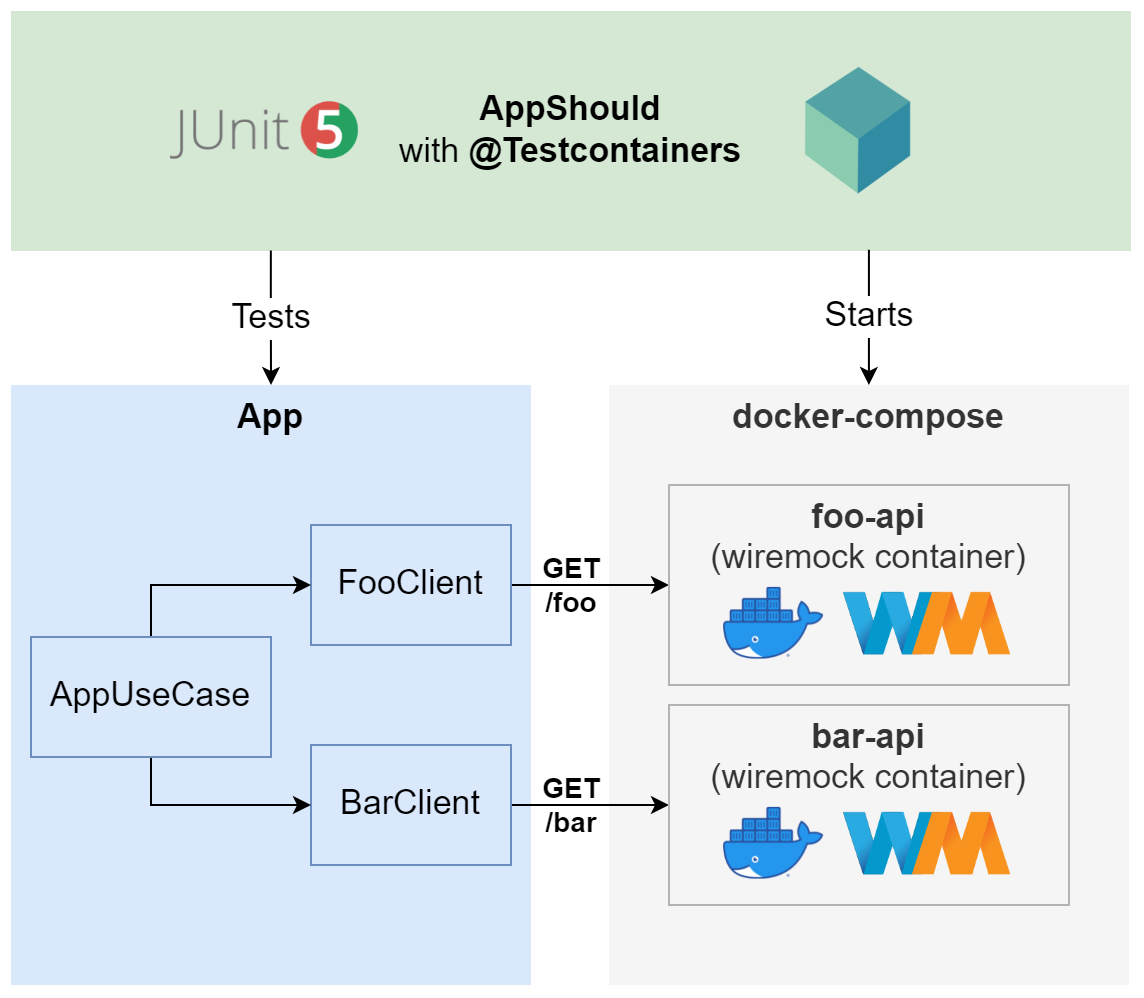
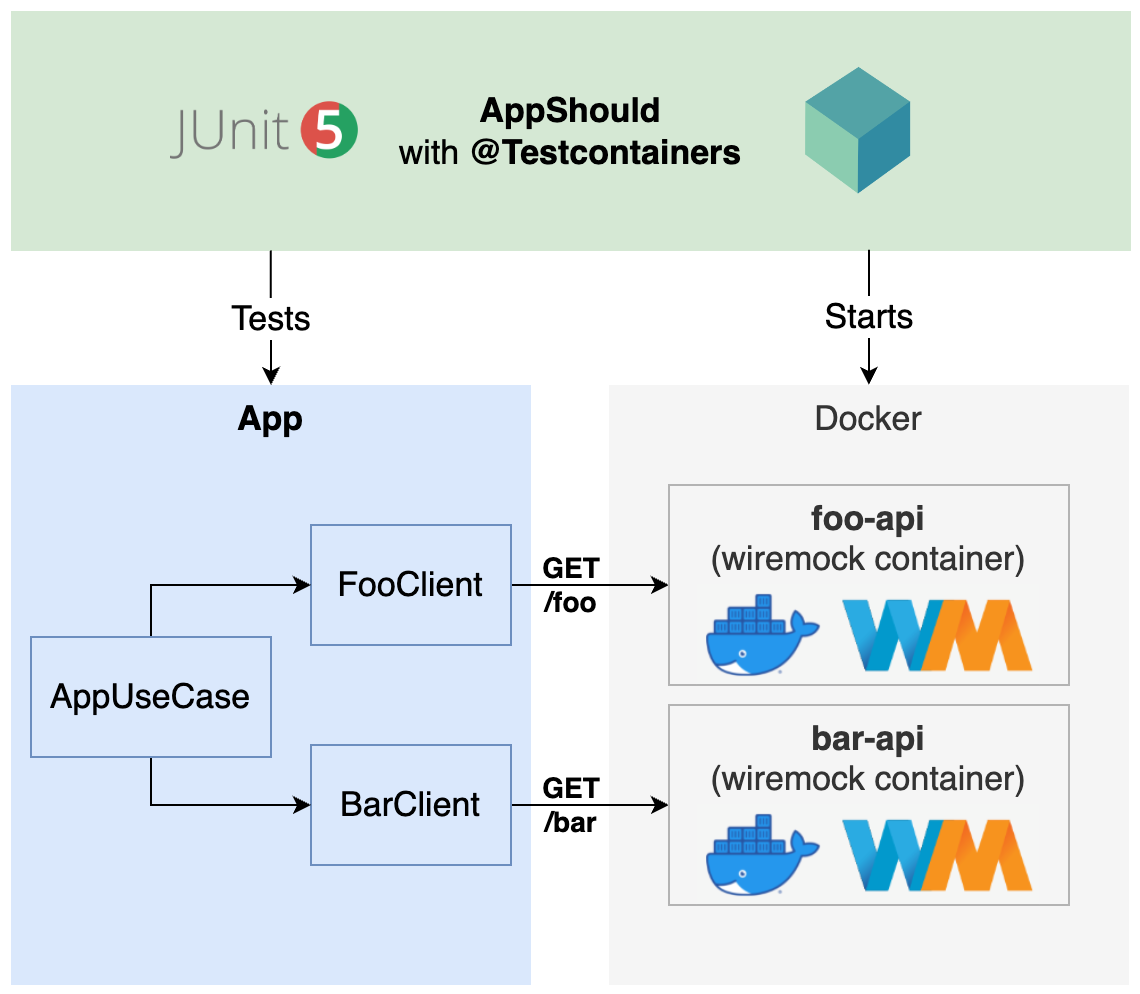
Use WireMock Testcontainers (#24)
* Update documentation

* Fix text

* Use numbered list

* Fix image

* Fix text

* Fix link

* Fix link

* Fix code

* Fix index

* Fix links

* Rename test

* Use WireMockContainer

* Update README

* Fix headings

diff --git a/src/test/kotlin/com/rogervinas/wiremock/AppShouldWithWireMockTestcontainers.kt b/src/test/kotlin/com/rogervinas/wiremock/AppShouldWithWireMockTestcontainers.kt
@@ -1,0 +1,80 @@
+package com.rogervinas.wiremock
+
+import com.github.tomakehurst.wiremock.client.WireMock
+import com.github.tomakehurst.wiremock.client.WireMock.get
+import com.github.tomakehurst.wiremock.client.WireMock.ok
+import com.github.tomakehurst.wiremock.client.WireMock.urlPathEqualTo
+import com.github.tomakehurst.wiremock.client.WireMock.urlPathMatching
+import org.assertj.core.api.Assertions.assertThat
+import org.junit.jupiter.api.Test
+import org.junit.jupiter.api.TestInstance
+import org.junit.jupiter.api.TestInstance.Lifecycle.PER_CLASS
+import org.testcontainers.junit.jupiter.Container
+import org.testcontainers.junit.jupiter.Testcontainers
+import org.wiremock.integrations.testcontainers.WireMockContainer
+import java.io.File
+
+@Testcontainers
+@TestInstance(PER_CLASS)
+class AppShouldWithWireMockTestcontainers {
+
+  companion object {
+    private const val name = "Ivy"
+
+    @Container
+    @JvmStatic
+    val containerFoo = WireMockContainer("wiremock/wiremock:3.2.0")
+      .withMappingFromJSON(File("wiremock/foo-api/mappings/foo-get.json").readText())
+      .withCliArg("--global-response-templating")
+
+    @Container
+    @JvmStatic
+    val containerBar = WireMockContainer("wiremock/wiremock:3.2.0")
+      .withMappingFromJSON(File("wiremock/bar-api/mappings/bar-get.json").readText())
+      .withCliArg("--global-response-templating")
+  }
+
+  @Test
+  fun `call foo and bar`() {
+    val fooApiUrl = "http://${containerFoo.host}:${containerFoo.port}"
+    val barApiUrl = "http://${containerBar.host}:${containerBar.port}"
+
+    val app = App(name, fooApiUrl, barApiUrl)
+
+    assertThat(app.execute()).isEqualTo(
+      """
+        Hi! I am $name
+        I called Foo and its response is Hello $name I am Foo!
+        I called Bar and its response is Hello $name I am Bar!
+        Bye!
+      """.trimIndent()
+    )
+  }
+
+  @Test
+  fun `call foo an bar with dynamic stubs`() {
+    val fooApiUrl = "http://${containerFoo.host}:${containerFoo.port}/dynamic"
+    val barApiUrl = "http://${containerBar.host}:${containerBar.port}/dynamic"
+
+    WireMock(containerFoo.host, containerFoo.port)
+          .register(get(urlPathEqualTo("/dynamic/foo"))
+                .withQueryParam("name", WireMock.equalTo(name))
+                .willReturn(ok().withBody("Hi $name I am Foo, how are you?"))
+    )
+    WireMock(containerBar.host, containerBar.port)
+          .register(get(urlPathMatching("/dynamic/bar/$name"))
+                .willReturn(ok().withBody("Hi $name I am Bar, nice to meet you!"))
+          )
+
+    val app = App(name, fooApiUrl, barApiUrl)
+
+    assertThat(app.execute()).isEqualTo(
+      """
+        Hi! I am $name
+        I called Foo and its response is Hi $name I am Foo, how are you?
+        I called Bar and its response is Hi $name I am Bar, nice to meet you!
+        Bye!
+      """.trimIndent()
+    )
+  }
+}

diff --git a/src/test/kotlin/com/rogervinas/wiremock/AppShouldWithComposeTestcontainers.kt b/src/test/kotlin/com/rogervinas/wiremock/AppShouldWithComposeTestcontainers.kt
@@ -1,7 +1,10 @@
 package com.rogervinas.wiremock
 
 import com.github.tomakehurst.wiremock.client.WireMock
-import com.github.tomakehurst.wiremock.client.WireMock.*
+import com.github.tomakehurst.wiremock.client.WireMock.get
+import com.github.tomakehurst.wiremock.client.WireMock.ok
+import com.github.tomakehurst.wiremock.client.WireMock.urlPathEqualTo
+import com.github.tomakehurst.wiremock.client.WireMock.urlPathMatching
 import org.assertj.core.api.Assertions.assertThat
 import org.junit.jupiter.api.BeforeAll
 import org.junit.jupiter.api.Test
@@ -15,7 +18,7 @@ import java.io.File
 
 @Testcontainers
 @TestInstance(PER_CLASS)
-class AppShouldWithWireMockDocker {
+class AppShouldWithComposeTestcontainers {
 
   companion object {
     private const val name = "Ivy"

diff --git a/README.md b/README.md
@@ -6,11 +6,14 @@
 # WireMock Testing
 
 [WireMock](https://wiremock.org/) is a great library to mock APIs in your tests and supports [Junit5](https://wiremock.org/docs/junit-jupiter/) with two modes:
-
 - Declarative with **@WireMockTest**
 - Programmatic with **WireMockExtension**
 
-And **WireMock** also has an [official Docker image](https://hub.docker.com/r/wiremock/wiremock)!
+And **WireMock** also has:
+- A [Docker image](https://hub.docker.com/r/wiremock/wiremock)!
+- A [Testcontainers module](https://wiremock.org/docs/solutions/testcontainers/)!
+
+(you can also check [other supported technologies](https://wiremock.org/docs/#:~:text=By%20technology))
 
 But "talk is cheap, show me the code [...](https://www.goodreads.com/quotes/437173-talk-is-cheap-show-me-the-code#:~:text=Quote%20by%20Linus%20Torvalds%3A%20%E2%80%9CTalk,Show%20me%20the%20code.%E2%80%9D)" 😮
 
@@ -18,7 +21,9 @@ Ok so let's implement first the scenario with **@WireMockTest**:
 
 ![WireMockTest](doc/WireMockTest.png)
 
-And later the one with [WireMock's official Docker image](https://hub.docker.com/r/wiremock/wiremock):
+And later the one with [@Testcontainers](https://testcontainers.com/) and these two alternatives:
+1. Generic [Compose Testcontainers module](https://java.testcontainers.org/modules/docker_compose/#compose-v2) using [official WireMock's docker image](https://hub.docker.com/r/wiremock/wiremock)
+2. [WireMock's Testcontainers module](https://wiremock.org/docs/solutions/testcontainers/)
 
 ![WireMockDockerTest](doc/WireMockDockerTest.png)
 
@@ -35,10 +40,11 @@ And later the one with [WireMock's official Docker image](https://hub.docker.com
   * [App implementation](#app-implementation)
   * [App test with @WireMockTest](#app-test-with-wiremocktest)
   * [App test with WireMockExtension](#app-test-with-wiremockextension)
-  * [App test with WireMock Docker](#app-test-with-wiremock-docker)
+  * [App test with Compose Testcontainers module](#app-test-with-compose-testcontainers-module)
     * [Static stubs](#static-stubs)
     * [Dynamic stubs](#dynamic-stubs)
-  * [App run with WireMock Docker](#app-run-with-wiremock-docker)
+  * [App test with WireMock Testcontainers module](#app-test-with-wiremock-testcontainers-module)
+  * [App run with WireMock container and Docker Compose](#app-run-with-wiremock-container-and-docker-compose)
 * [Test this demo](#test-this-demo)
 * [Run this demo](#run-this-demo)
 
@@ -294,9 +300,9 @@ class AppShouldWithTwoWireMockExtensions {
 }
 ```
 
-## App test with WireMock Docker
+### App test with Compose Testcontainers module
 
-### Static stubs
+#### Static stubs
 
 First we will use static stubs configured as json files:
 
@@ -311,7 +317,7 @@ Finally we test the **App** using [Testcontainers JUnit5 extension](https://www.
 ```kotlin
 @Testcontainers
 @TestInstance(PER_CLASS)
-class AppShouldWithWireMockDocker {
+class AppShouldWithComposeTestcontainers {
 
  companion object {
   private const val name = "Ivy" 
@@ -326,13 +332,10 @@ class AppShouldWithWireMockDocker {
    
   @Container
   @JvmStatic
-  val container = DockerComposeContainer<Nothing>(File("docker-compose.yml"))
-   .apply {
-    withLocalCompose(true)
-    withExposedService(fooServiceName, fooServicePort, forListeningPort())
-    withExposedService(barServiceName, barServicePort, forListeningPort())
-    withLogConsumer()
-   }
+  val container = ComposeContainer(File("docker-compose.yml"))
+    .withLocalCompose(true)
+    .withExposedService(fooServiceName, fooServicePort, forListeningPort())
+    .withExposedService(barServiceName, barServicePort, forListeningPort())
    
   @BeforeAll
   @JvmStatic
@@ -363,7 +366,7 @@ class AppShouldWithWireMockDocker {
 }
 ```
 
-### Dynamic stubs
+#### Dynamic stubs
 
 We can also configure our stubs programmatically like we did in [testing with @WireMockTest](#app-test-with-wiremocktest) or [testing with WireMockExtension](#app-test-with-wiremockextension).
 
@@ -397,9 +400,50 @@ fun `call foo an bar with dynamic stubs`() {
 }
 ```
 
-## App run with WireMock Docker
+### App test with WireMock Testcontainers module
 
-**WireMock** with **Docker** has a cool advantage, we can use the same **docker-compose** used by the test to start the application and run/debug it locally:
+Instead of the generic **ComposeContainer** we can use the specific **WireMockContainer** this way:
+
+```kotlin
+@Testcontainers
+@TestInstance(PER_CLASS)
+class AppShouldWithWireMockTestcontainers {
+
+  companion object {
+    @Container
+    @JvmStatic
+    val containerFoo = WireMockContainer("wiremock/wiremock:3.2.0")
+      .withMappingFromJSON(File("wiremock/foo-api/mappings/foo-get.json").readText())
+      .withCliArg("--global-response-templating")
+
+    @Container
+    @JvmStatic
+    val containerBar = WireMockContainer("wiremock/wiremock:3.2.0")
+      .withMappingFromJSON(File("wiremock/bar-api/mappings/bar-get.json").readText())
+      .withCliArg("--global-response-templating")
+  }
+
+  @Test
+  fun `call foo and bar`() {
+    val fooApiUrl = "http://${containerFoo.host}:${containerFoo.port}"
+    val barApiUrl = "http://${containerBar.host}:${containerBar.port}"
+    // ...
+  }
+
+  @Test
+  fun `call foo an bar with dynamic stubs`() {
+    // ...
+  }
+}
+```
+
+Tests are the same as the ones in [App test with Compose Testcontainers module](#app-test-with-compose-testcontainers-module), just with two minor differences:
+- The way we get `host` and `port` for each container
+- The way we specify `--global-response-templating` parameter to enable [response templating](https://wiremock.org/docs/response-templating/) 
+
+### App run with WireMock container and Docker Compose
+
+We can use the same **docker-compose** used by the test to start the application and run/debug it locally:
 
 ![WireMockDockerRun](doc/WireMockDockerRun.png)
 
